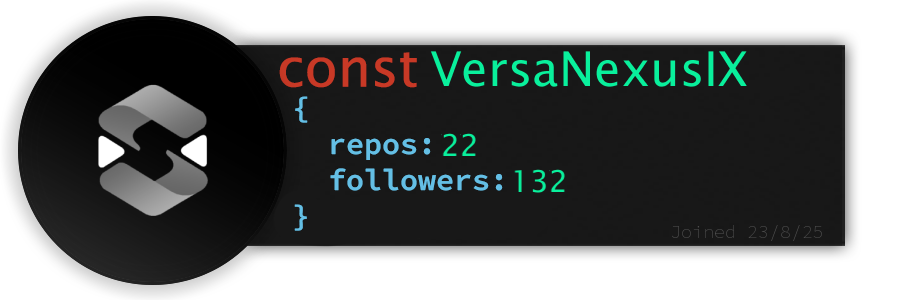
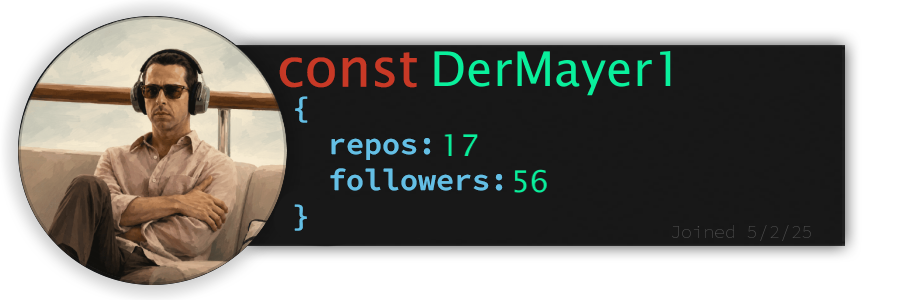
Generated readme

diff --git a/README.md b/README.md
@@ -9,28 +9,28 @@
 * Born in Salvador, 19 years
 * Software Engineer
 * Currently studying Spring Boot
-* 1 Year, 7 Months and 25 Days since I started programming
+* 1 Year, 7 Months and 26 Days since I started programming
 
 ## **Skills wall:**
 
-<p align="left"><img src="https://img.shields.io/badge/github-4D4577?logo=github&style=for-the-badge&logoColor=F2F2F2"/>
-<img src="https://img.shields.io/badge/vite-4D4577?logo=vite&style=for-the-badge&logoColor=F2F2F2"/>
-<img src="https://img.shields.io/badge/bootstrap-3c5ef7?logo=bootstrap&style=for-the-badge&logoColor=F2F2F2"/>
-<img src="https://img.shields.io/badge/github%20pages-4D4577?logo=github&style=for-the-badge&logoColor=F2F2F2"/>
-<img src="https://img.shields.io/badge/photoshop-4D4577?logo=adobe-photoshop&style=for-the-badge&logoColor=F2F2F2"/>
-<img src="https://img.shields.io/badge/figma-3c5ef7?logo=figma&style=for-the-badge&logoColor=F2F2F2"/>
-<img src="https://img.shields.io/badge/html5-4D4577?logo=html5&style=for-the-badge&logoColor=F2F2F2"/>
-<img src="https://img.shields.io/badge/react-3c5ef7?logo=react&style=for-the-badge&logoColor=F2F2F2"/>
-<img src="https://img.shields.io/badge/sass-372c77?logo=sass&style=for-the-badge&logoColor=F2F2F2"/>
-<img src="https://img.shields.io/badge/javascript-3c5ef7?logo=javascript&style=for-the-badge&logoColor=F2F2F2"/>
-<img src="https://img.shields.io/badge/spring%20boot-4D4577?logo=spring%20boot&style=for-the-badge&logoColor=F2F2F2"/>
-<img src="https://img.shields.io/badge/git-3c5ef7?logo=git&style=for-the-badge&logoColor=F2F2F2"/>
-<img src="https://img.shields.io/badge/css3-372c77?logo=css3&style=for-the-badge&logoColor=F2F2F2"/>
-<img src="https://img.shields.io/badge/java-372c77?logo=java&style=for-the-badge&logoColor=F2F2F2"/>
-<img src="https://img.shields.io/badge/vercel-4D4577?logo=vercel&style=for-the-badge&logoColor=F2F2F2"/>
+<p align="left"><img src="https://img.shields.io/badge/bootstrap-3c5ef7?logo=bootstrap&style=for-the-badge&logoColor=F2F2F2"/>
 <img src="https://img.shields.io/badge/typescript-3c5ef7?logo=typescript&style=for-the-badge&logoColor=F2F2F2"/>
+<img src="https://img.shields.io/badge/figma-3c5ef7?logo=figma&style=for-the-badge&logoColor=F2F2F2"/>
 <img src="https://img.shields.io/badge/postgresql-3c5ef7?logo=postgresql&style=for-the-badge&logoColor=F2F2F2"/>
-<img src="https://img.shields.io/badge/npm-4D4577?logo=npm&style=for-the-badge&logoColor=F2F2F2"/></p>
+<img src="https://img.shields.io/badge/github%20pages-4D4577?logo=github&style=for-the-badge&logoColor=F2F2F2"/>
+<img src="https://img.shields.io/badge/vercel-4D4577?logo=vercel&style=for-the-badge&logoColor=F2F2F2"/>
+<img src="https://img.shields.io/badge/css3-4D4577?logo=css3&style=for-the-badge&logoColor=F2F2F2"/>
+<img src="https://img.shields.io/badge/react-3c5ef7?logo=react&style=for-the-badge&logoColor=F2F2F2"/>
+<img src="https://img.shields.io/badge/vite-372c77?logo=vite&style=for-the-badge&logoColor=F2F2F2"/>
+<img src="https://img.shields.io/badge/html5-4D4577?logo=html5&style=for-the-badge&logoColor=F2F2F2"/>
+<img src="https://img.shields.io/badge/javascript-3c5ef7?logo=javascript&style=for-the-badge&logoColor=F2F2F2"/>
+<img src="https://img.shields.io/badge/github-372c77?logo=github&style=for-the-badge&logoColor=F2F2F2"/>
+<img src="https://img.shields.io/badge/npm-372c77?logo=npm&style=for-the-badge&logoColor=F2F2F2"/>
+<img src="https://img.shields.io/badge/spring%20boot-372c77?logo=spring%20boot&style=for-the-badge&logoColor=F2F2F2"/>
+<img src="https://img.shields.io/badge/java-4D4577?logo=java&style=for-the-badge&logoColor=F2F2F2"/>
+<img src="https://img.shields.io/badge/sass-372c77?logo=sass&style=for-the-badge&logoColor=F2F2F2"/>
+<img src="https://img.shields.io/badge/photoshop-372c77?logo=adobe-photoshop&style=for-the-badge&logoColor=F2F2F2"/>
+<img src="https://img.shields.io/badge/git-3c5ef7?logo=git&style=for-the-badge&logoColor=F2F2F2"/></p>
 
 ## **Recent projects:**
 
@@ -53,7 +53,7 @@
 
 *Showcases a random GitHub follower here everyday*
 
-<a href="https://github.com/VersaNexusIX" alt="Versa NexusIX"><img style="height:150px;" src=./src/resources/images/randomFollower.png alt="Follower of the day"/></a>
+<a href="https://github.com/DerMayer1" alt="Lucas Zimmermann "><img style="height:150px;" src=./src/resources/images/randomFollower.png alt="Follower of the day"/></a>
 
 <hr>
 
